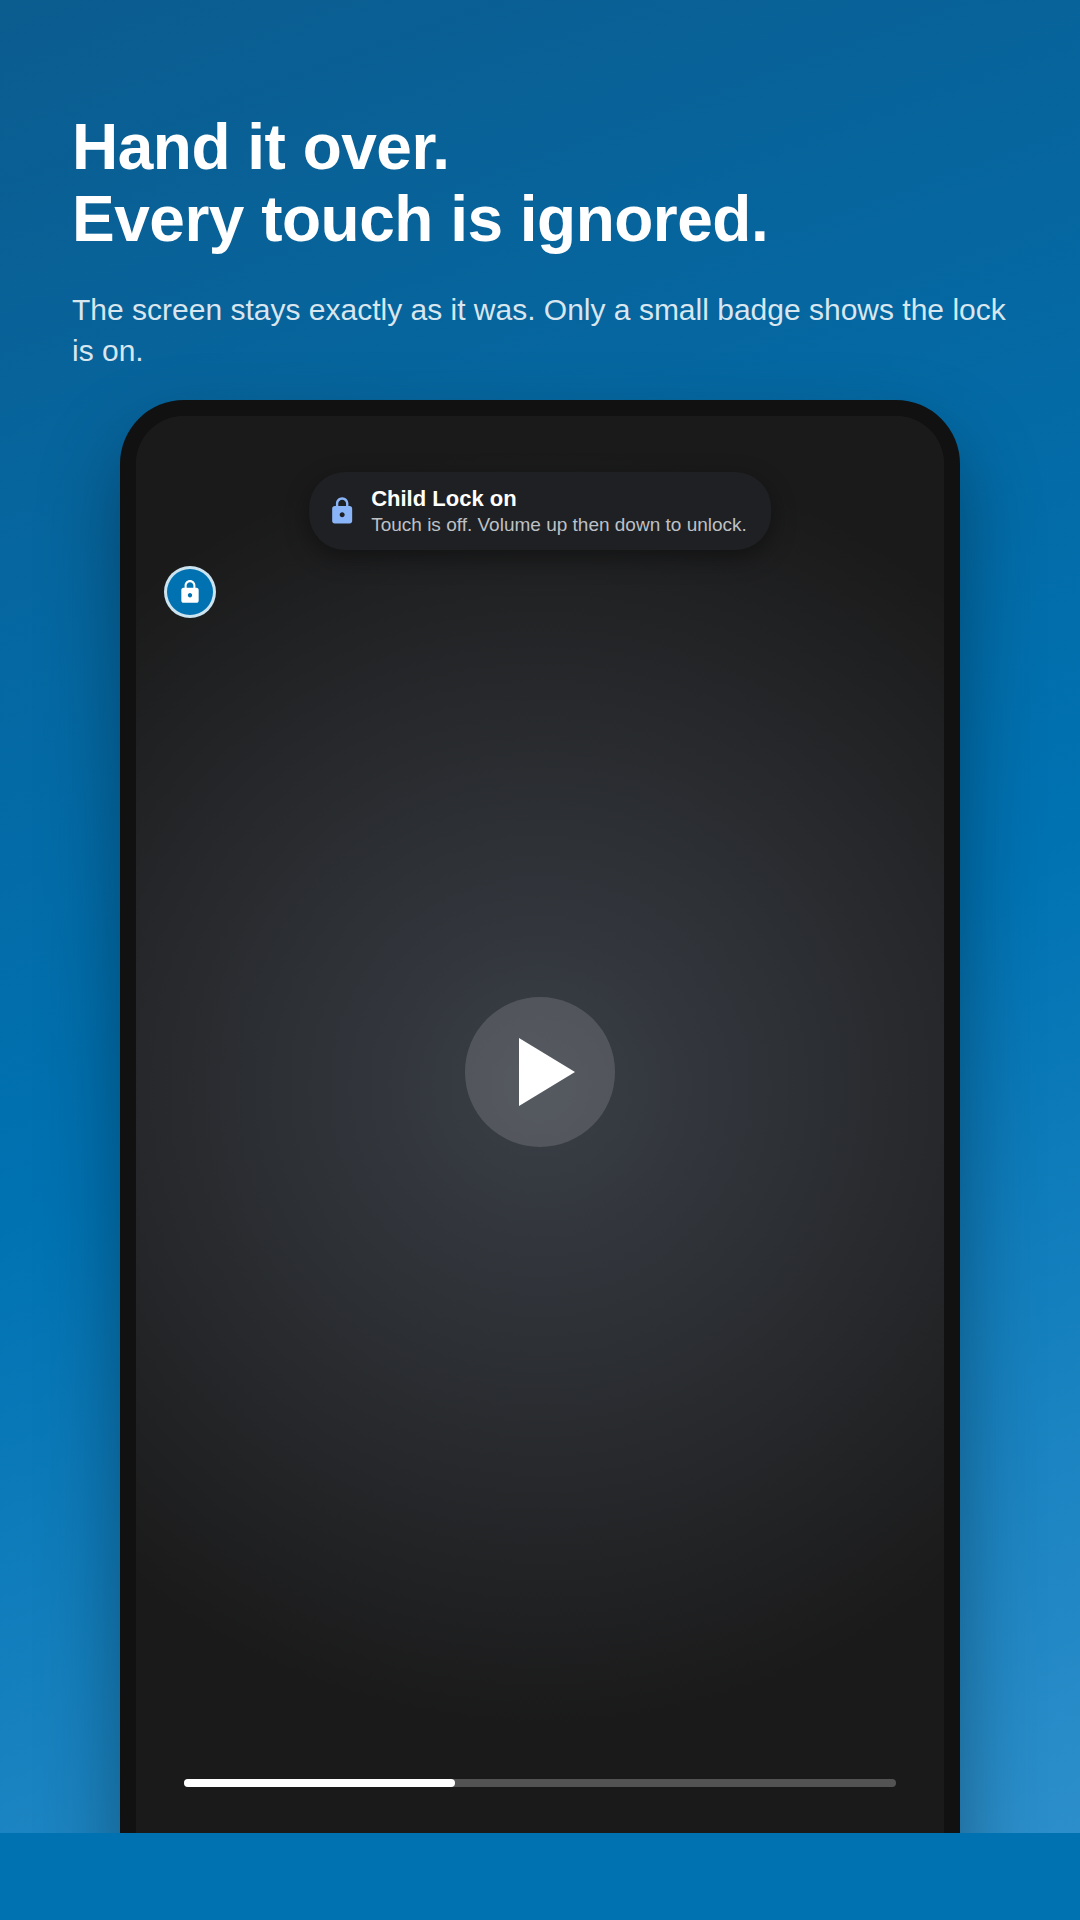
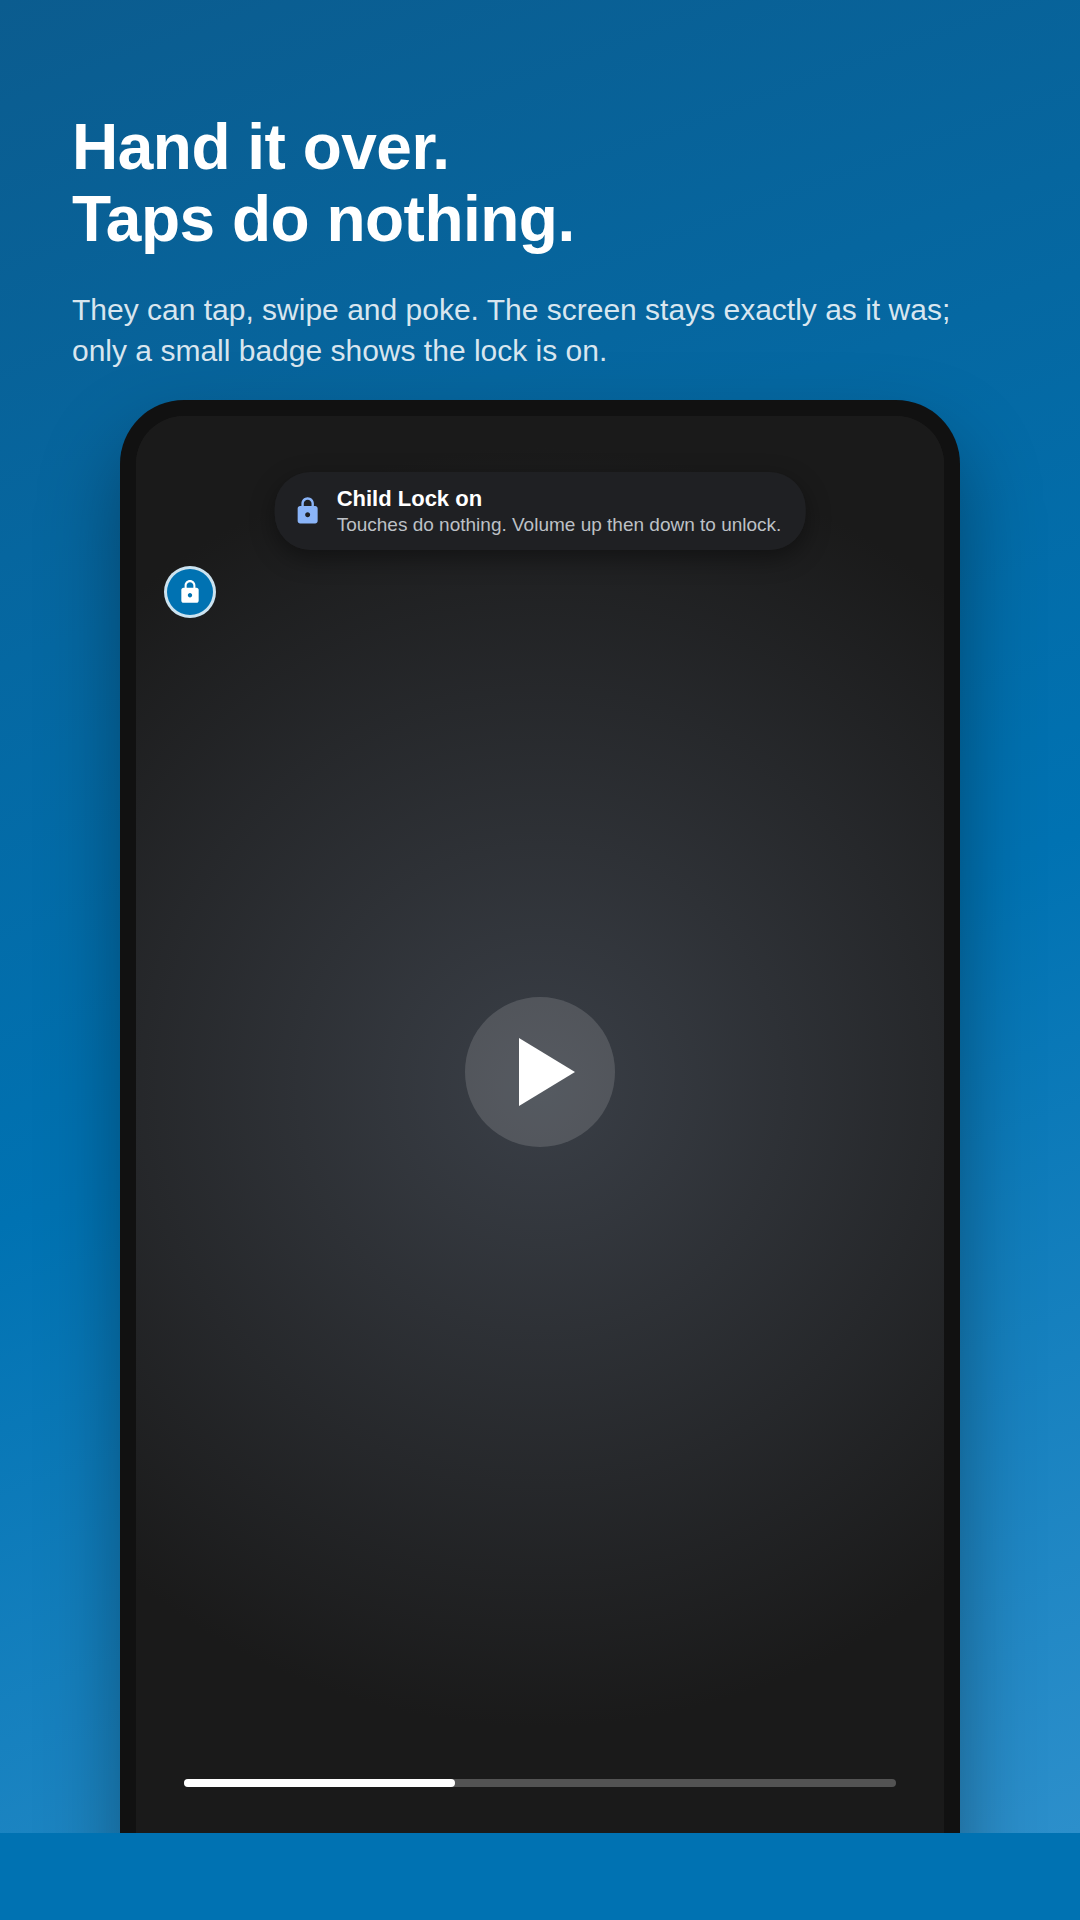
Wording: touching is allowed, it just does nothing
Claude-Session: https://claude.ai/code/session_0188NW8BsZ8joUkLttEvMeU2

Changed region(s): [[0.0611, 0.0938, 0.9167, 0.1875], [0.275, 0.25, 0.7028, 0.2812]]

diff --git a/app/src/test/java/com/gbhall/childlock/ui/ScreenshotTest.kt b/app/src/test/java/com/gbhall/childlock/ui/ScreenshotTest.kt
@@ -57,9 +57,9 @@ class ScreenshotTest {
         val frame = android.widget.FrameLayout(ctx).apply { setBackgroundColor(0xFF6B7280.toInt()) }
         val column = android.widget.LinearLayout(ctx).apply { orientation = android.widget.LinearLayout.VERTICAL; gravity = android.view.Gravity.CENTER_HORIZONTAL }
         listOf(
-            com.gbhall.childlock.lock.BannerWindow.Kind.ARMING to "Touch locks in 15 s. Switch away to cancel.",
-            com.gbhall.childlock.lock.BannerWindow.Kind.ON to "Touch is off. Volume up then down to unlock.",
-            com.gbhall.childlock.lock.BannerWindow.Kind.OFF to "Touch is back.",
+            com.gbhall.childlock.lock.BannerWindow.Kind.ARMING to "Touches stop working in 15 s. Switch away to cancel.",
+            com.gbhall.childlock.lock.BannerWindow.Kind.ON to "Touches do nothing. Volume up then down to unlock.",
+            com.gbhall.childlock.lock.BannerWindow.Kind.OFF to "Touch works again.",
         ).forEach { (kind, detail) ->
             column.addView(com.gbhall.childlock.lock.BannerWindow.build(ctx, kind, detail),
                 android.widget.LinearLayout.LayoutParams(ViewGroup.LayoutParams.WRAP_CONTENT, ViewGroup.LayoutParams.WRAP_CONTENT).apply { topMargin = (24 * d).toInt() })

diff --git a/store/listing.md b/store/listing.md
@@ -3,7 +3,7 @@
 ## App details
 
 - **App name** (30 max): Child Lock: Touch Freeze
-- **Short description** (80 max): Hand your phone to your child. They can watch, they cannot touch.
+- **Short description** (80 max): Hand your phone to your child. Tap all they like, nothing happens.
 - **Category**: Parenting (secondary: Tools)
 - **Contact email**: your address
 - **Privacy policy URL**: https://github.com/gbhall99/Child-lock/blob/main/PRIVACY.md
@@ -13,13 +13,13 @@
 
 ## Full description (4000 max)
 
-Hand your phone to your child with a video, a video call or a game on screen. They can watch and listen; every touch is ignored. The screen is never covered or dimmed. The only sign is a small padlock badge in a corner.
+Hand your phone to your child with a video, a video call or a game on screen. They can watch, listen, tap, swipe and poke; nothing happens. The screen is never covered or dimmed. The only sign is a small padlock badge in a corner.
 
 LOCK AND UNLOCK WITHOUT TOUCHING THE SCREEN
 Press volume up, then volume down. That is it. The same pattern switches the lock on and off, so you never have to find a button while a small hand is reaching for the phone. A short notice confirms each change.
 
-WHAT THE CHILD CANNOT DO
-• Tap, swipe, pinch or scroll
+WHAT STOPS WORKING FOR THE CHILD
+• Taps, swipes, pinches and scrolls
 • Press back or the volume buttons
 • Pull down the notification shade
 • Swipe home or open recent apps

diff --git a/README.md b/README.md
@@ -1,8 +1,9 @@
 # Child Lock
 
 Hand your phone to your child with a video, a video call or a game on
-screen. They can watch and listen, but every touch is swallowed. The screen is never covered or dimmed; the only sign
-is a small padlock badge in one corner. You unlock with a quick gesture that an
+screen. They can tap, swipe and poke all they like; nothing happens. The
+screen is never covered or dimmed; the only sign is a small padlock badge
+in one corner. You unlock with a quick gesture that an
 adult does without thinking and a toddler will not stumble into.
 
 `PLAN.md` holds the full design. This file is the practical guide.
@@ -126,7 +127,7 @@ lock's notification is silent and shows no status-bar icon.
 
 | The child… | Result |
 |---|---|
-| Taps, swipes, pinches anywhere on screen | Nothing happens |
+| Taps, swipes, pokes anywhere on screen | Nothing happens |
 | Presses back or volume | Swallowed (with the accessibility guard) |
 | Pulls down the notification shade | Closed immediately (with the guard) |
 | Swipes home, back or recents | Blocked outright (with the guard and a volume gesture); otherwise the app you handed over is brought straight back |

diff --git a/MONETISATION.md b/MONETISATION.md
@@ -59,7 +59,7 @@ Two policy items need care before submission:
 4. Store listing: 4 screenshots (locked call, volume gesture, setup assistant,
    settings), a 20-second video of the volume-button toggle. The hook is one
    sentence: "Hand your phone to your toddler on a video call. They can watch,
-   they cannot touch."
+   tap all they like, nothing happens."
 5. Closed test with 20 parents (Play requires 12 testers for 14 days for new
    personal accounts anyway). Collect device/skin data: Samsung and Xiaomi
    handle overlays and accessibility differently and are most of the market.
